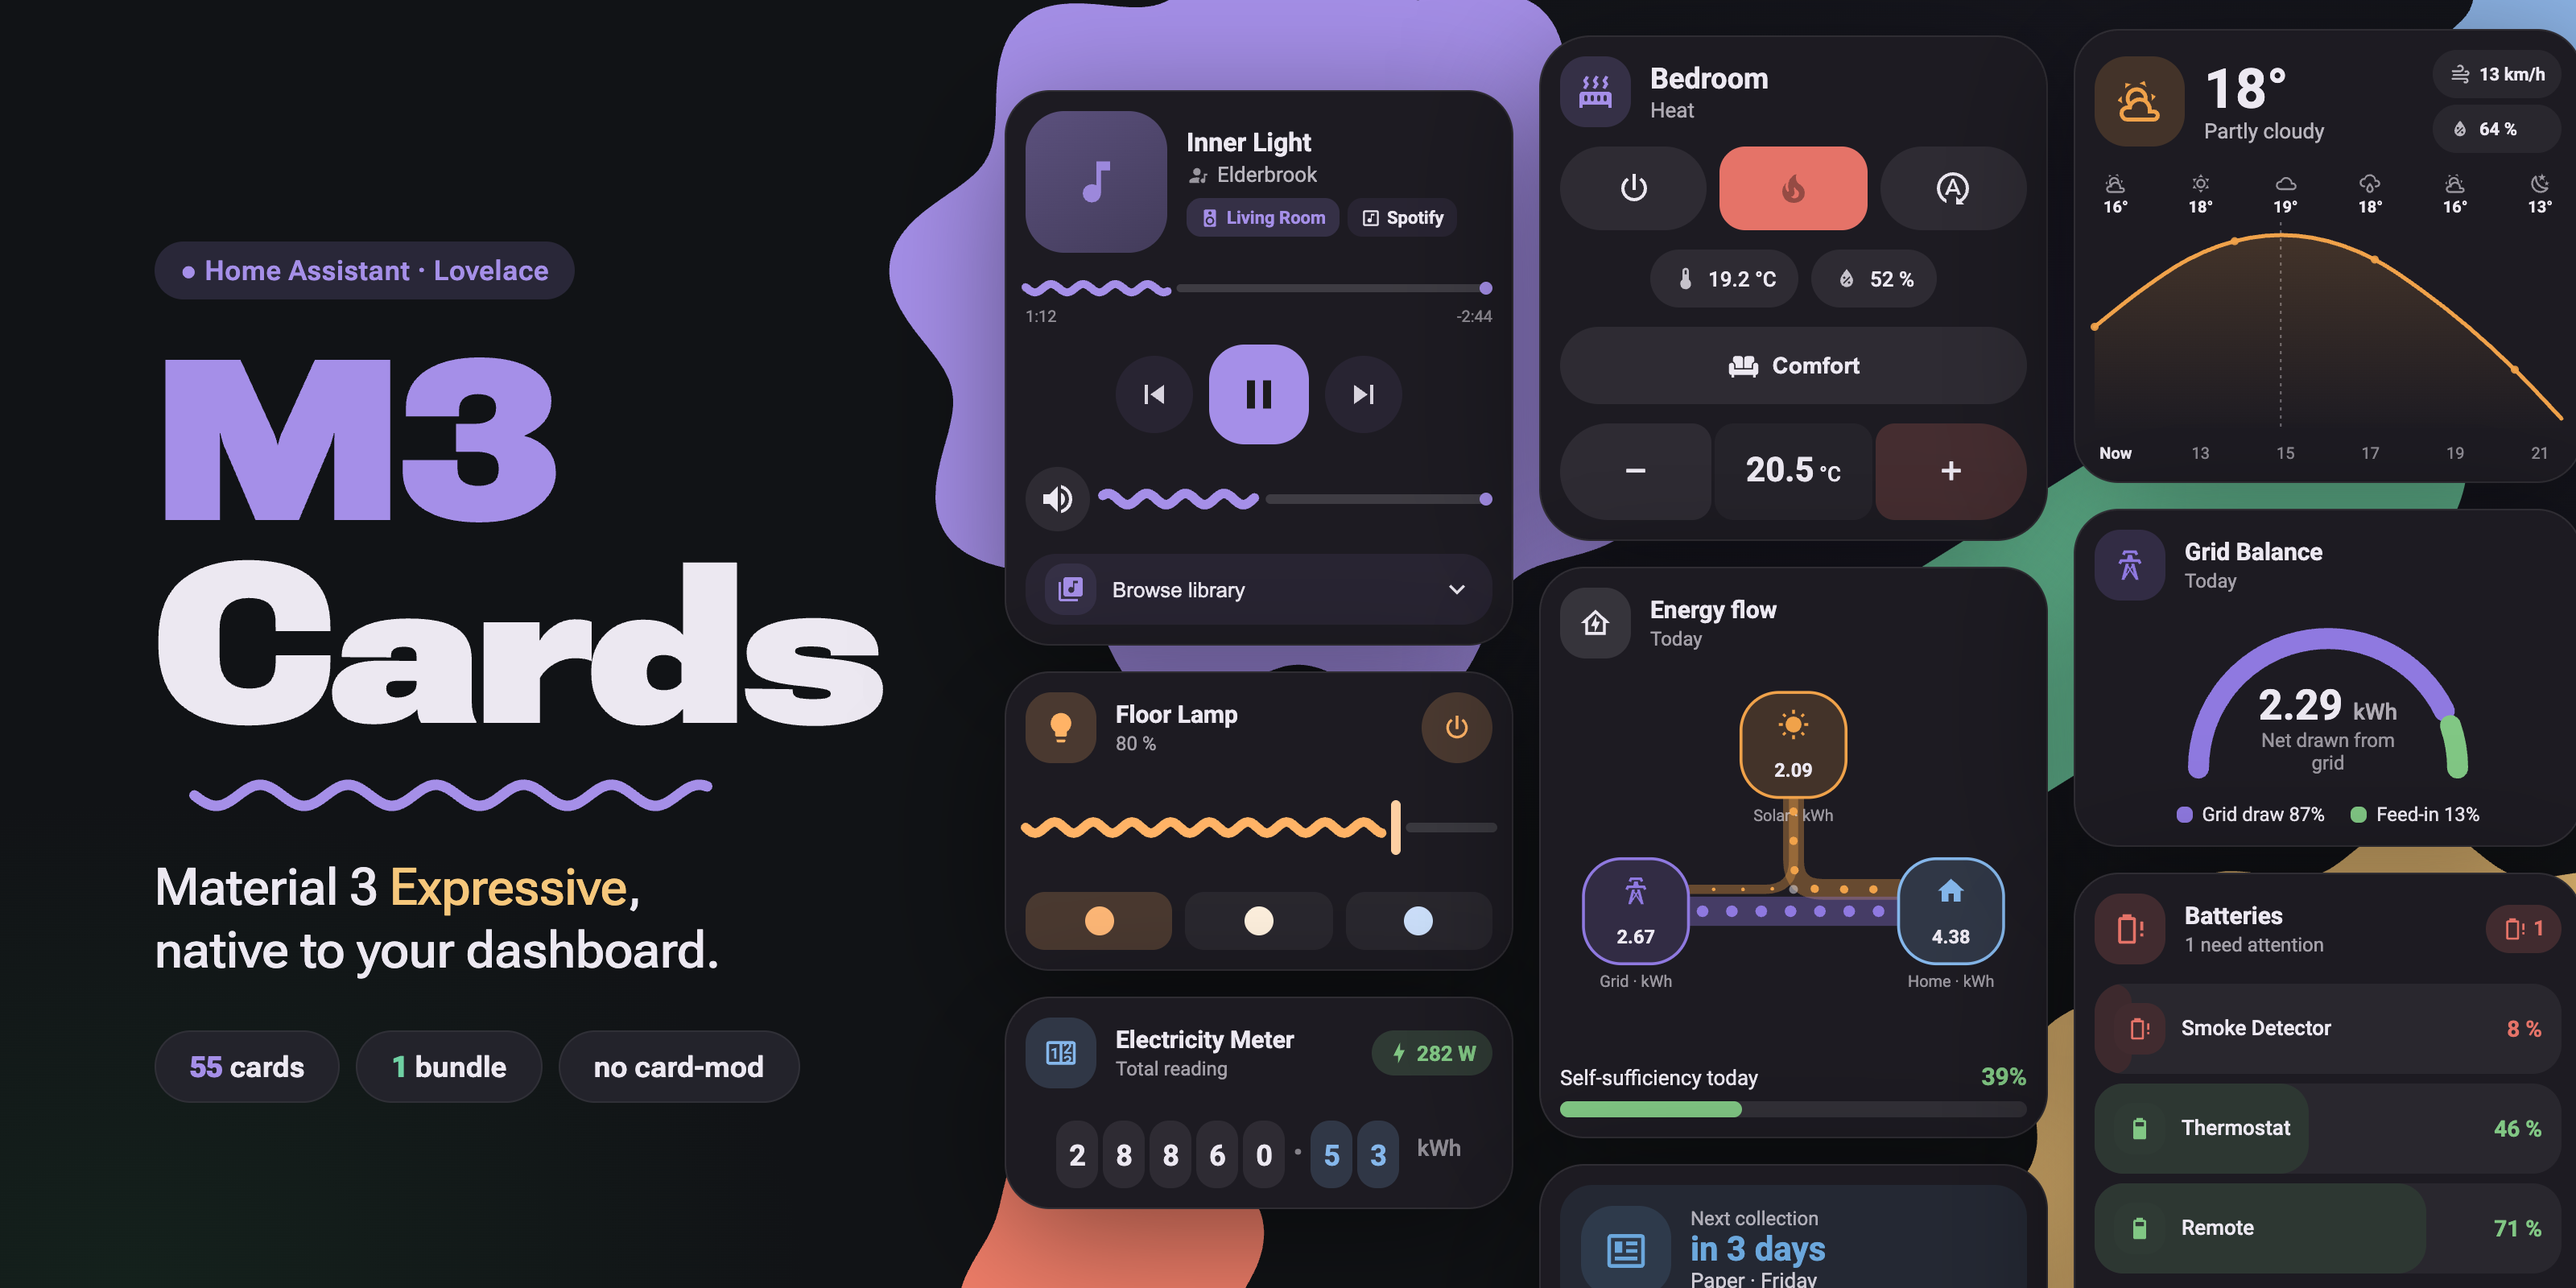
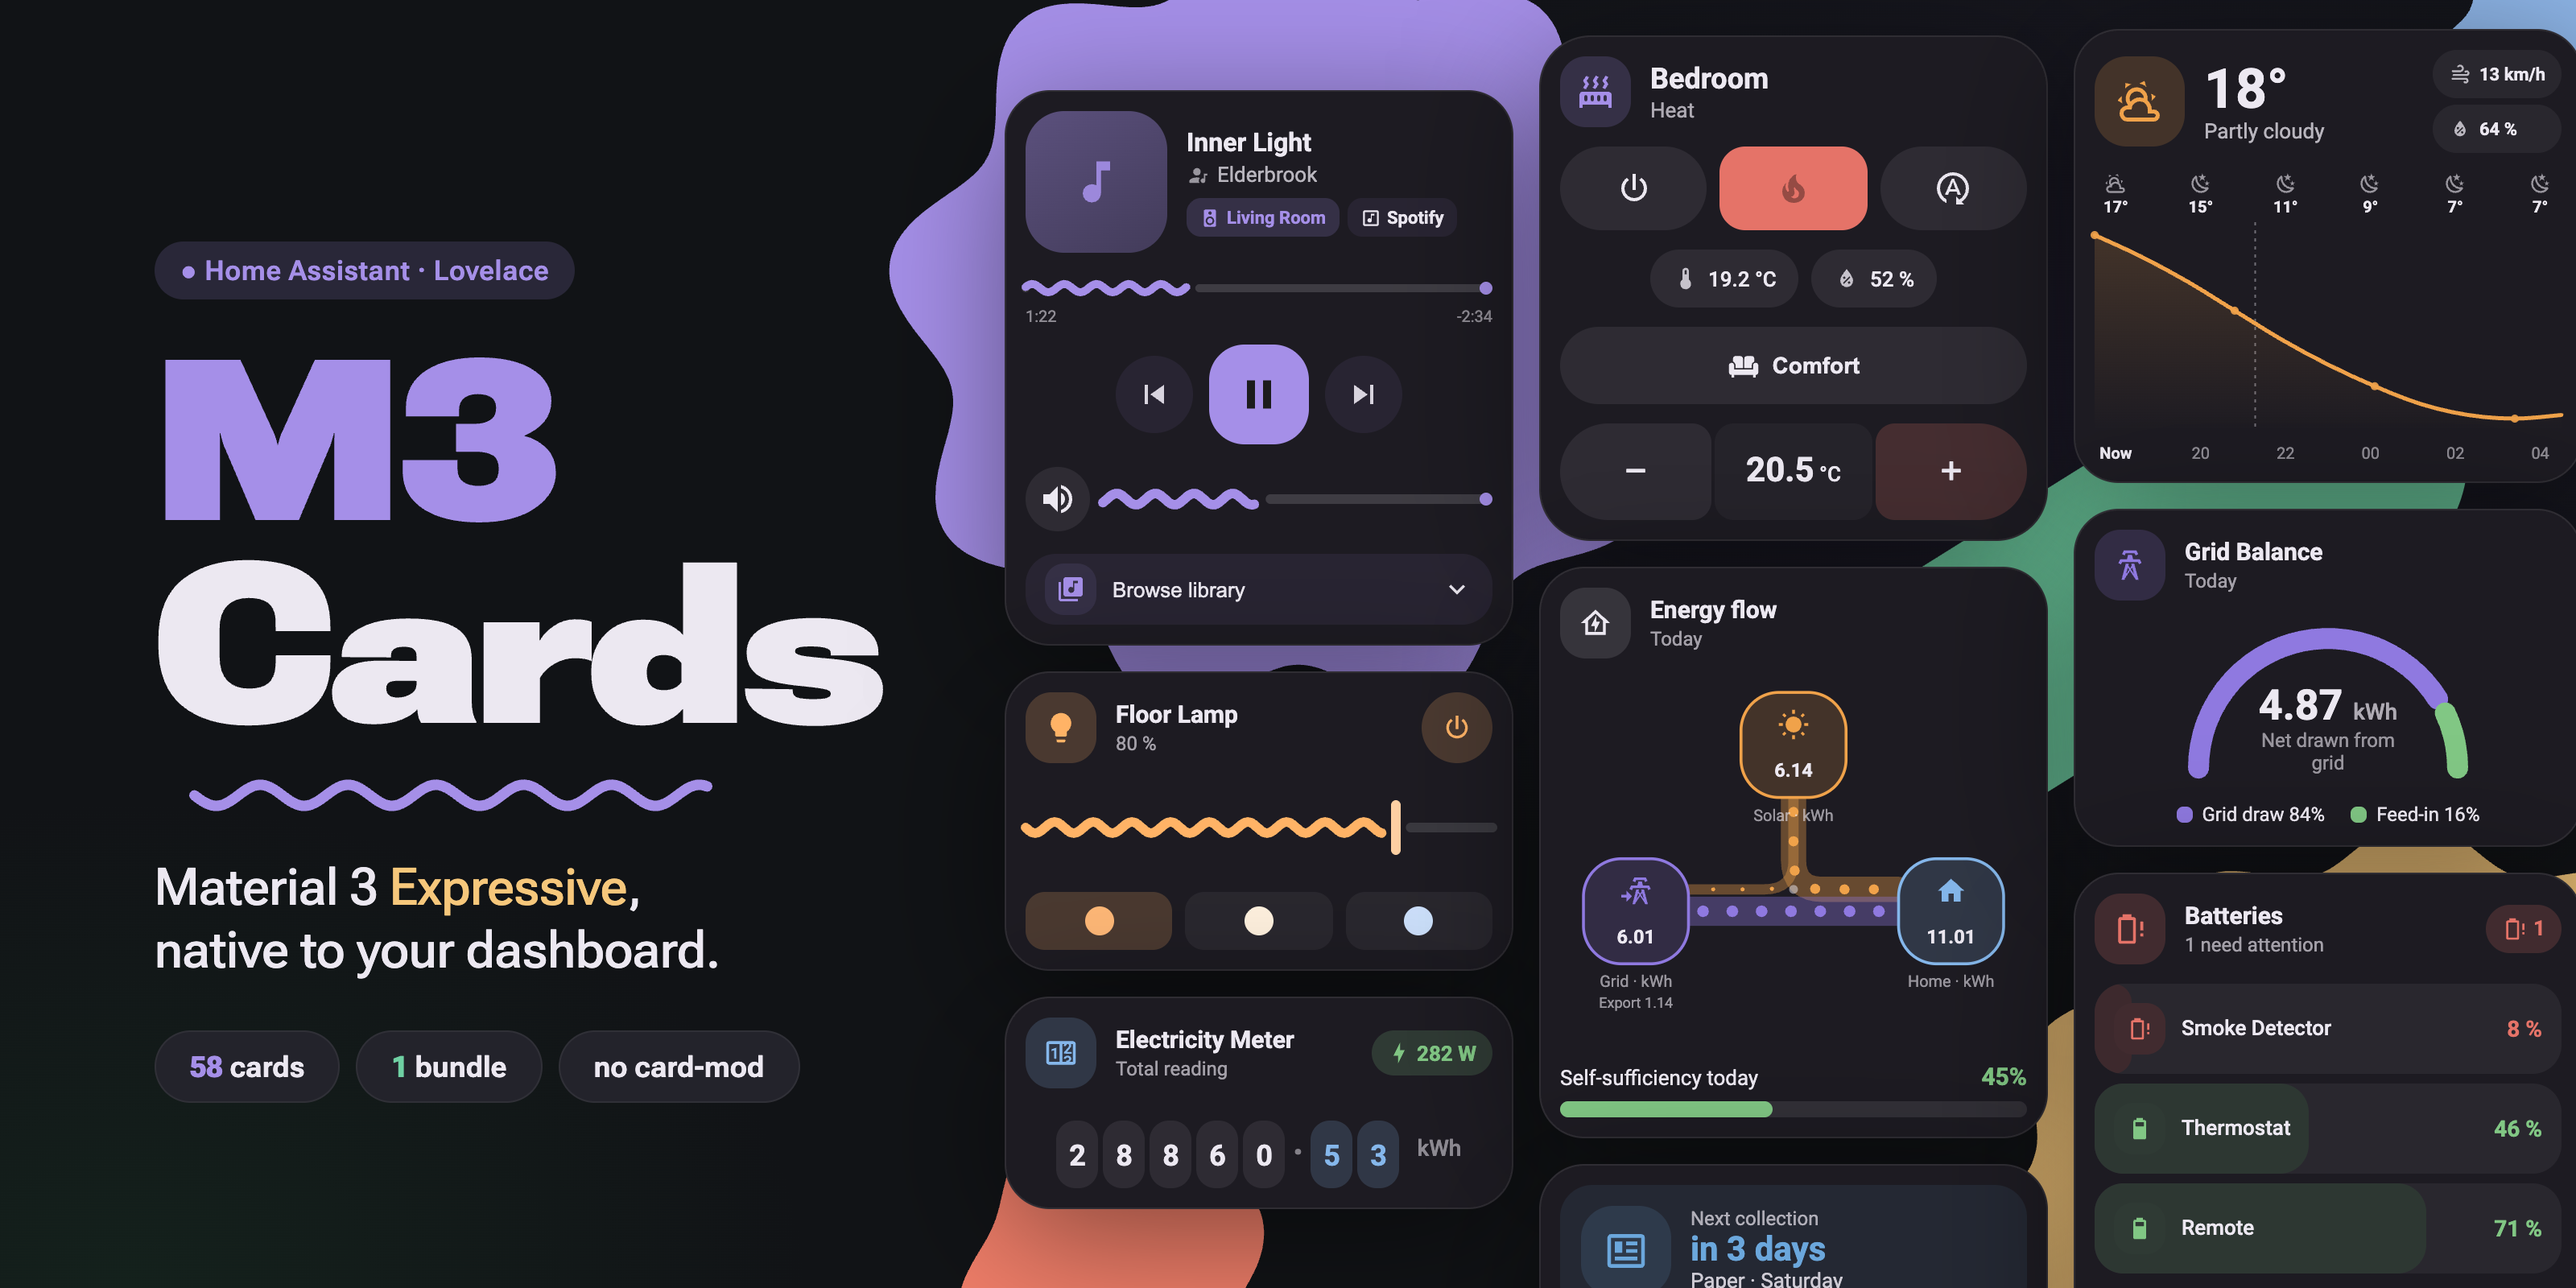
Release 2.9.0
Three new cards (availability, tariff, energy usage; 58 in all), the
needle gauge, the compact energy flow, popup sizes. Changelog, version,
hero image with 58 cards, release image.

diff --git a/src/const.ts b/src/const.ts
@@ -10,7 +10,7 @@ import {
   LEVEL_TRACK_RADIUS,
 } from "./shared/level-slider";
 
-export const CARD_VERSION = "2.8.1";
+export const CARD_VERSION = "2.9.0";
 
 export const DEFAULT_CLIMATE_RADIUS = RADIUS.cardHero;
 export const DEFAULT_MINI_RADIUS = RADIUS.card;

diff --git a/CHANGELOG.md b/CHANGELOG.md
@@ -6,43 +6,37 @@ Versionierung folgt [SemVer](https://semver.org/lang/de/).
 
 ## [Unreleased]
 
-### Added
+## [2.9.0] – 2026-11-18
 
-- **Energy card: `y_axis`**. Round values and dashed lines on the left of
-  the bars, the unit at the top. Off by default.
-- **Popup card: `width` and `height`** (#58). Pixels or any length
-  (`700px`, `80vw`, `70vh`) for the centred sheet on a tablet or desktop,
-  and `mobile_width` / `mobile_height` for a phone's bottom sheet, which
-  otherwise stays the full width and takes `height`. Every size is held
-  inside the screen. Without them nothing changes.
+### Added
 
 - **Availability card** (`m3-availability-card`, card 56): the devices Home
   Assistant cannot reach, one row per device rather than per entity.
   "Just went offline" and "Offline for a while", red after a day, filter
   chips per integration, a single line when everything answers. "Offline
   since" survives restarts (one history lookup per outage). The bell mutes a
-  device for a set time or until it is back, with undo; mutes are stored per
-  user and follow you between devices. Optional silence detection for named
-  integrations. Reads only the registries the frontend already holds, so it
-  works without admin rights.
-
-- **Energy usage card** (`m3-energy-usage-card`, card 58, #56). The energy
-  dashboard's use over a day, week, month or year in one card: a date
-  selection with arrows and a segmented button, the total with the
-  self-sufficiency, stacked bars (grid, battery, solar) with a breakdown on
-  tap, and a table of the sources with their costs, optionally per device.
-  Built on the dashboard's own configuration and statistics rather than its
-  components; cards with the same `collection_key` share their period, and
-  native energy cards on the view follow along where Home Assistant exposes
-  their period. Use and self-sufficiency are counted as the energy
-  dashboard counts them. An optional `y_axis` puts round values beside the
-  bars.
+  device for a set time, until it is back or for good, with undo; mutes are
+  stored per user and follow you between devices. Helpers attached to a
+  device (utility meters, templates) do not keep it online. Optional silence
+  detection for named integrations. Reads only the registries the frontend
+  already holds, so it works without admin rights.
 - **Tariff card** (`m3-tariff-card`, card 57, refs #56). Use and cost over
   two or more tariffs (Heures Pleines / Heures Creuses or any number): total
   cost, the active tariff from an entity or a schedule with its price, its
   saving against the dearest and "until HH:MM", the split of the period,
   a tile per tariff and stacked history bars with a breakdown on tap. Cost
   from a cost entity or use × price (a price entity's daily mean).
+- **Energy usage card** (`m3-energy-usage-card`, card 58, #56). The energy
+  dashboard's use over a day, week, month or year in one card: a date
+  selection with arrows and a segmented button, the total with the
+  self-sufficiency, stacked bars (grid, battery, solar) with a breakdown on
+  tap, and a table of the sources with their costs, optionally per device.
+  Built on the dashboard's own configuration and statistics rather than its
+  components, and counted the way the dashboard counts: the same figures.
+  Cards with the same `collection_key` share their period, and native
+  energy cards on the view follow along where Home Assistant exposes their
+  period. A new period slides in from its side; an optional `y_axis` puts
+  round values beside the bars.
 - **Gauge card: `style: needle`** (refs #56). A dial for one value: a 270°
   arc in coloured ranges (`segments`), filled up to the value, a needle that
   springs to a new value, scale labels, the value in the opening and a pill
@@ -55,6 +49,13 @@ Versionierung folgt [SemVer](https://semver.org/lang/de/).
 - **Energy flow card: one signed grid sensor** (#57). `grid_entity`
   (positive import, negative export, `grid_invert` to flip) in place of the
   import/export pair.
+- **Energy card: `y_axis`**. Round values and dashed lines on the left of
+  the bars, the unit at the top. Off by default.
+- **Popup card: `width` and `height`** (#58). Pixels or any length
+  (`700px`, `80vw`, `70vh`) for the centred sheet on a tablet or desktop,
+  and `mobile_width` / `mobile_height` for a phone's bottom sheet, which
+  otherwise stays the full width and takes `height`. Every size is held
+  inside the screen. Without them nothing changes.
 
 ### Fixed
 

diff --git a/docs/README.template.md b/docs/README.template.md
@@ -12,11 +12,12 @@ TypeScript + [Lit](https://lit.dev), **without** any dependency on
 (`m3-cards.js`) registers **{{CARD_COUNT}} cards**, all sharing one design language.
 
 <p align="center">
-  <a href="https://github.com/j0sp0r/m3-cards/releases/tag/v2.8.0"><img src="docs/images/release-2.8.jpg" alt="What's new in 2.8: the solar battery card, the alarm card, the compact media player and curtains in the cover card" width="880"></a>
+  <a href="https://github.com/j0sp0r/m3-cards/releases/tag/v2.9.0"><img src="docs/images/release-2.9.jpg" alt="What's new in 2.9: the energy usage card, the tariff card, the availability card and the needle gauge" width="880"></a>
 </p>
 
 <p align="center"><sub>
-  What's new in 2.7: <a href="https://github.com/j0sp0r/m3-cards/releases/tag/v2.7.0">the release notes</a> ·
+  Earlier: <a href="https://github.com/j0sp0r/m3-cards/releases/tag/v2.8.0">2.8</a> ·
+  <a href="https://github.com/j0sp0r/m3-cards/releases/tag/v2.7.0">2.7</a> ·
   2.6 as a video: <a href="https://github.com/j0sp0r/m3-cards/releases/download/v2.6.0/m3-cards-2.6.mp4">landscape</a> ·
   <a href="https://github.com/j0sp0r/m3-cards/releases/download/v2.6.0/m3-cards-2.6-phone.mp4">phone</a>
 </sub></p>

diff --git a/README.md b/README.md
@@ -12,11 +12,12 @@ TypeScript + [Lit](https://lit.dev), **without** any dependency on
 (`m3-cards.js`) registers **58 cards**, all sharing one design language.
 
 <p align="center">
-  <a href="https://github.com/j0sp0r/m3-cards/releases/tag/v2.8.0"><img src="docs/images/release-2.8.jpg" alt="What's new in 2.8: the solar battery card, the alarm card, the compact media player and curtains in the cover card" width="880"></a>
+  <a href="https://github.com/j0sp0r/m3-cards/releases/tag/v2.9.0"><img src="docs/images/release-2.9.jpg" alt="What's new in 2.9: the energy usage card, the tariff card, the availability card and the needle gauge" width="880"></a>
 </p>
 
 <p align="center"><sub>
-  What's new in 2.7: <a href="https://github.com/j0sp0r/m3-cards/releases/tag/v2.7.0">the release notes</a> ·
+  Earlier: <a href="https://github.com/j0sp0r/m3-cards/releases/tag/v2.8.0">2.8</a> ·
+  <a href="https://github.com/j0sp0r/m3-cards/releases/tag/v2.7.0">2.7</a> ·
   2.6 as a video: <a href="https://github.com/j0sp0r/m3-cards/releases/download/v2.6.0/m3-cards-2.6.mp4">landscape</a> ·
   <a href="https://github.com/j0sp0r/m3-cards/releases/download/v2.6.0/m3-cards-2.6-phone.mp4">phone</a>
 </sub></p>

diff --git a/docs/TESTING.md b/docs/TESTING.md
@@ -54,7 +54,7 @@ Beide Fehler ließen die Seite besser aussehen, als sie war.
 - Ein Handy oder ein per DevTools emuliertes Touch-Gerät für alle Drag-Interaktionen
   (Wave-Slider, Wischen) — Maus-Events allein decken `touch-action`-Konflikte nicht ab.
 
-## Cross-Cutting-Checkliste (für jede der 55 Karten)
+## Cross-Cutting-Checkliste (für jede der 58 Karten)
 
 Diese Punkte gelten kartenübergreifend, weil sie über gemeinsame `shared/*`-Module
 implementiert sind. Ein Fehlschlag hier betrifft potenziell alle Karten gleichzeitig.
